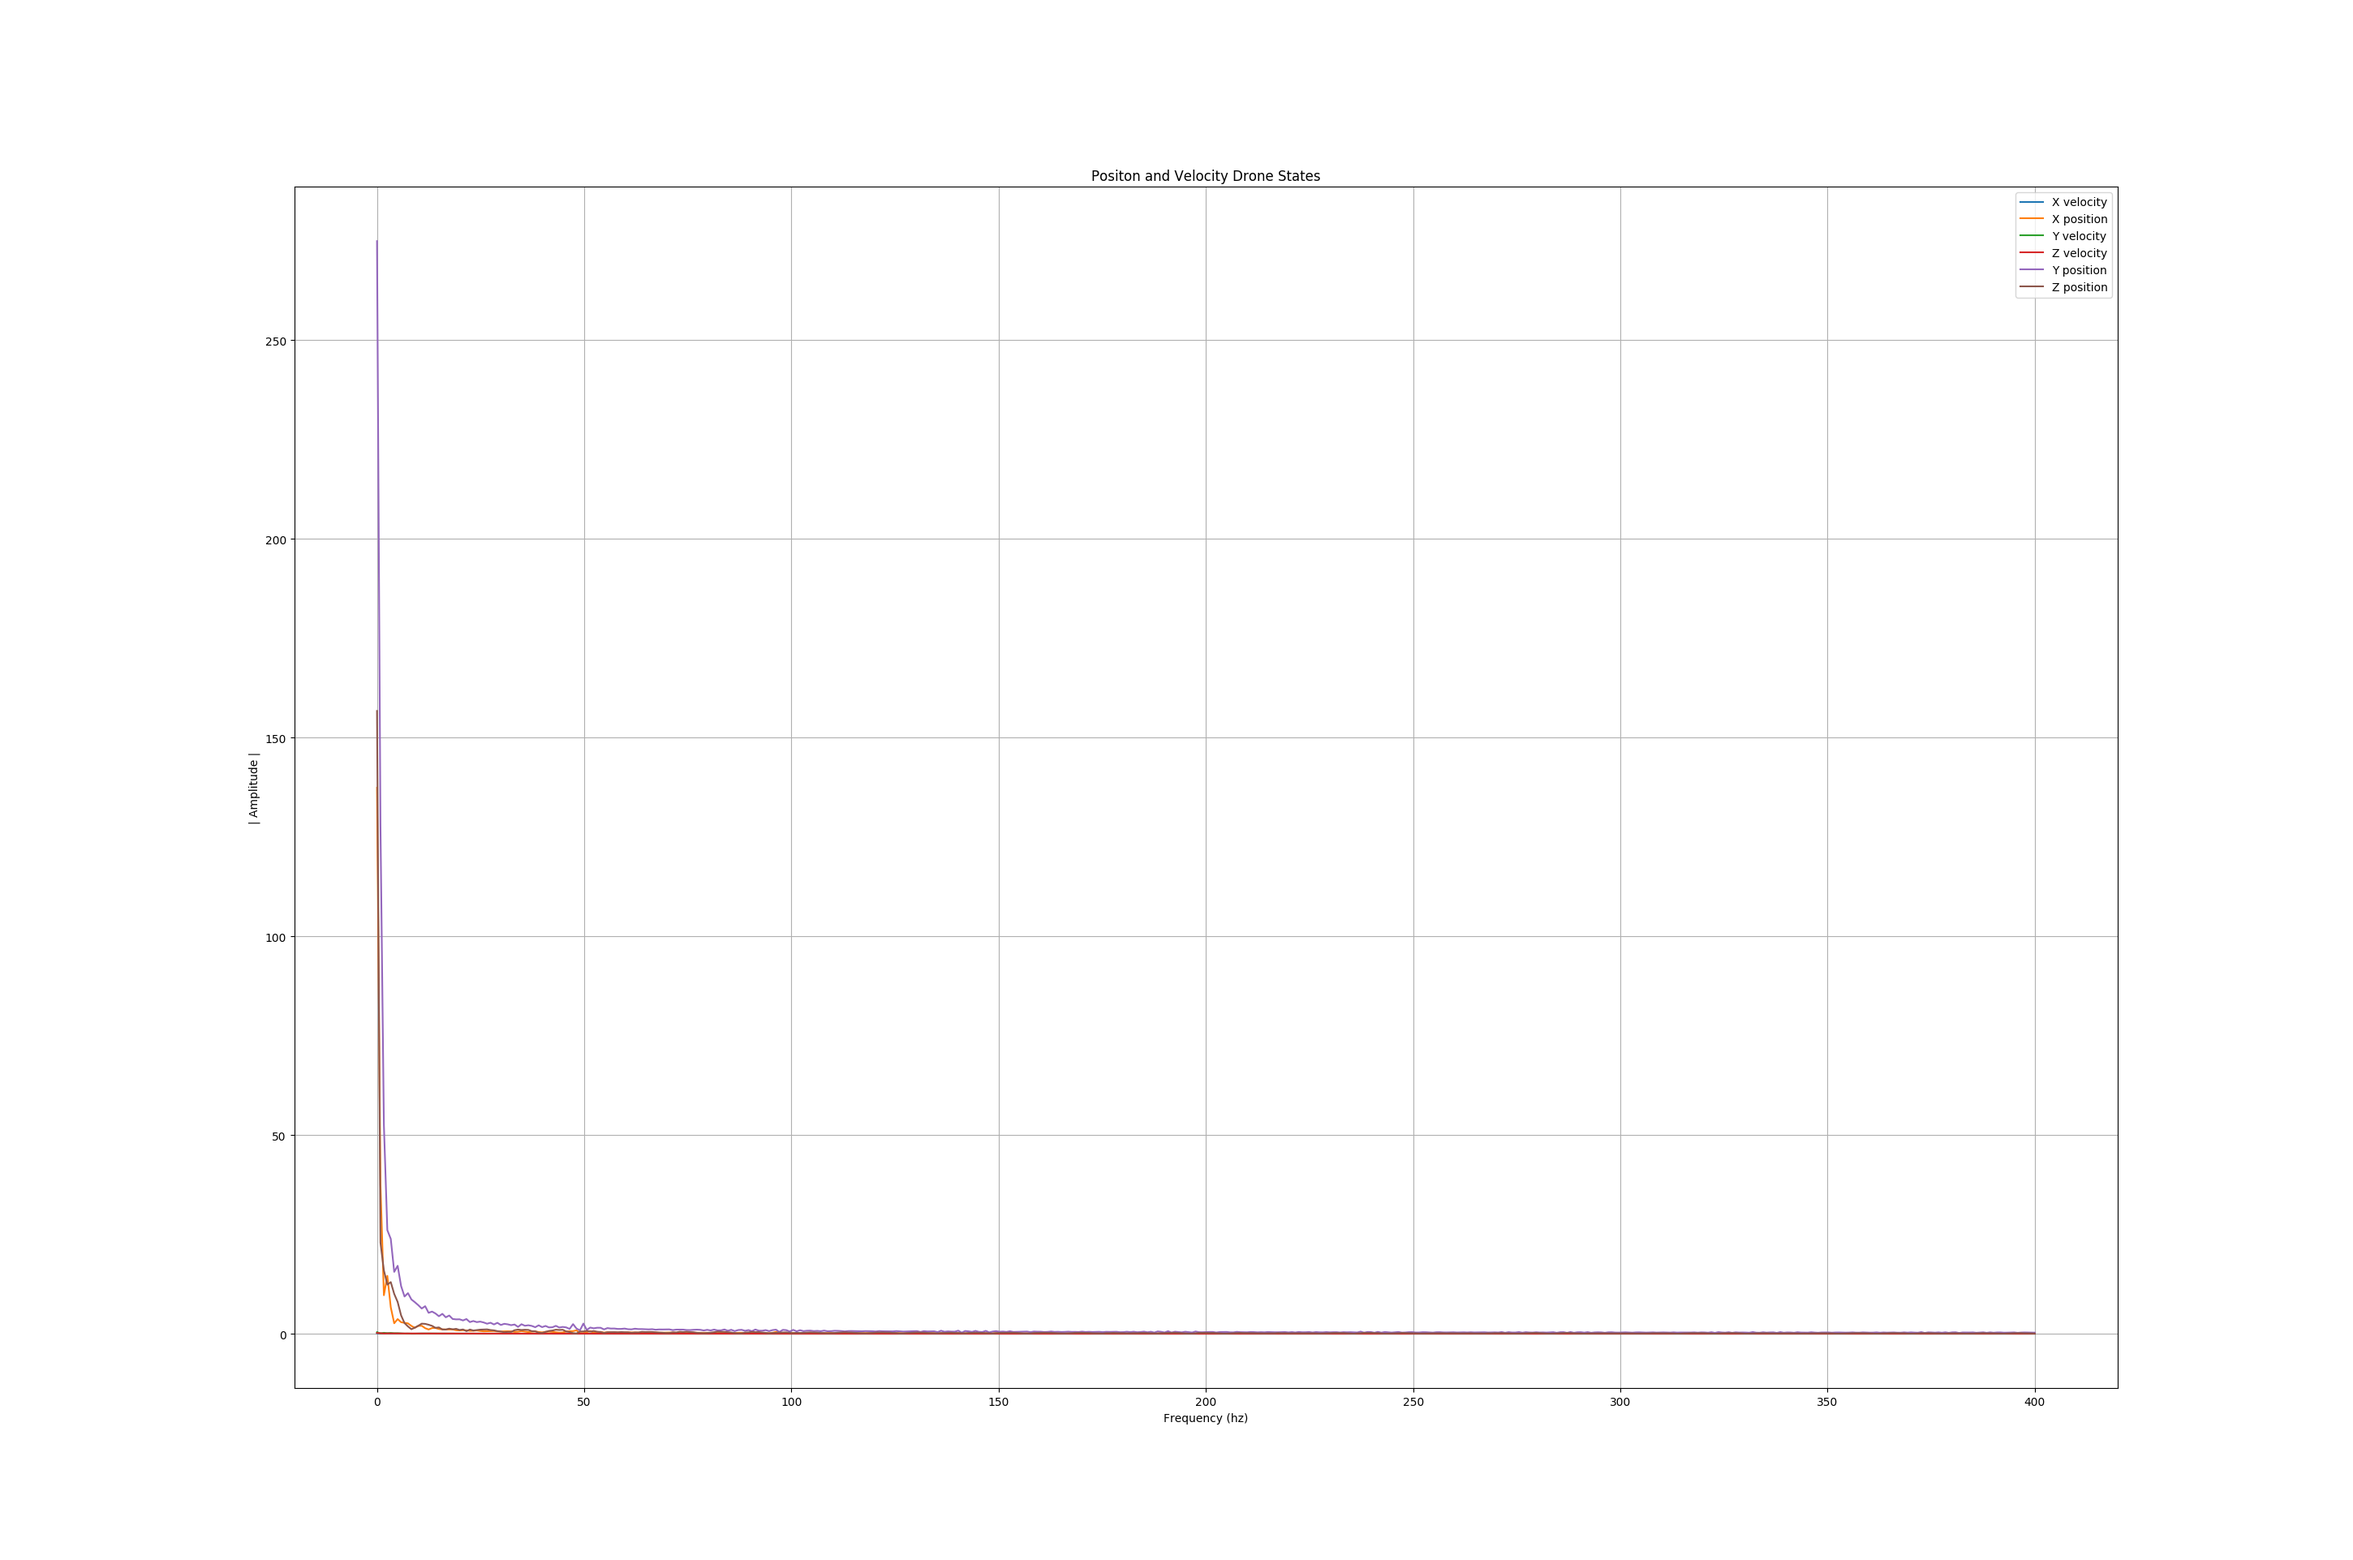
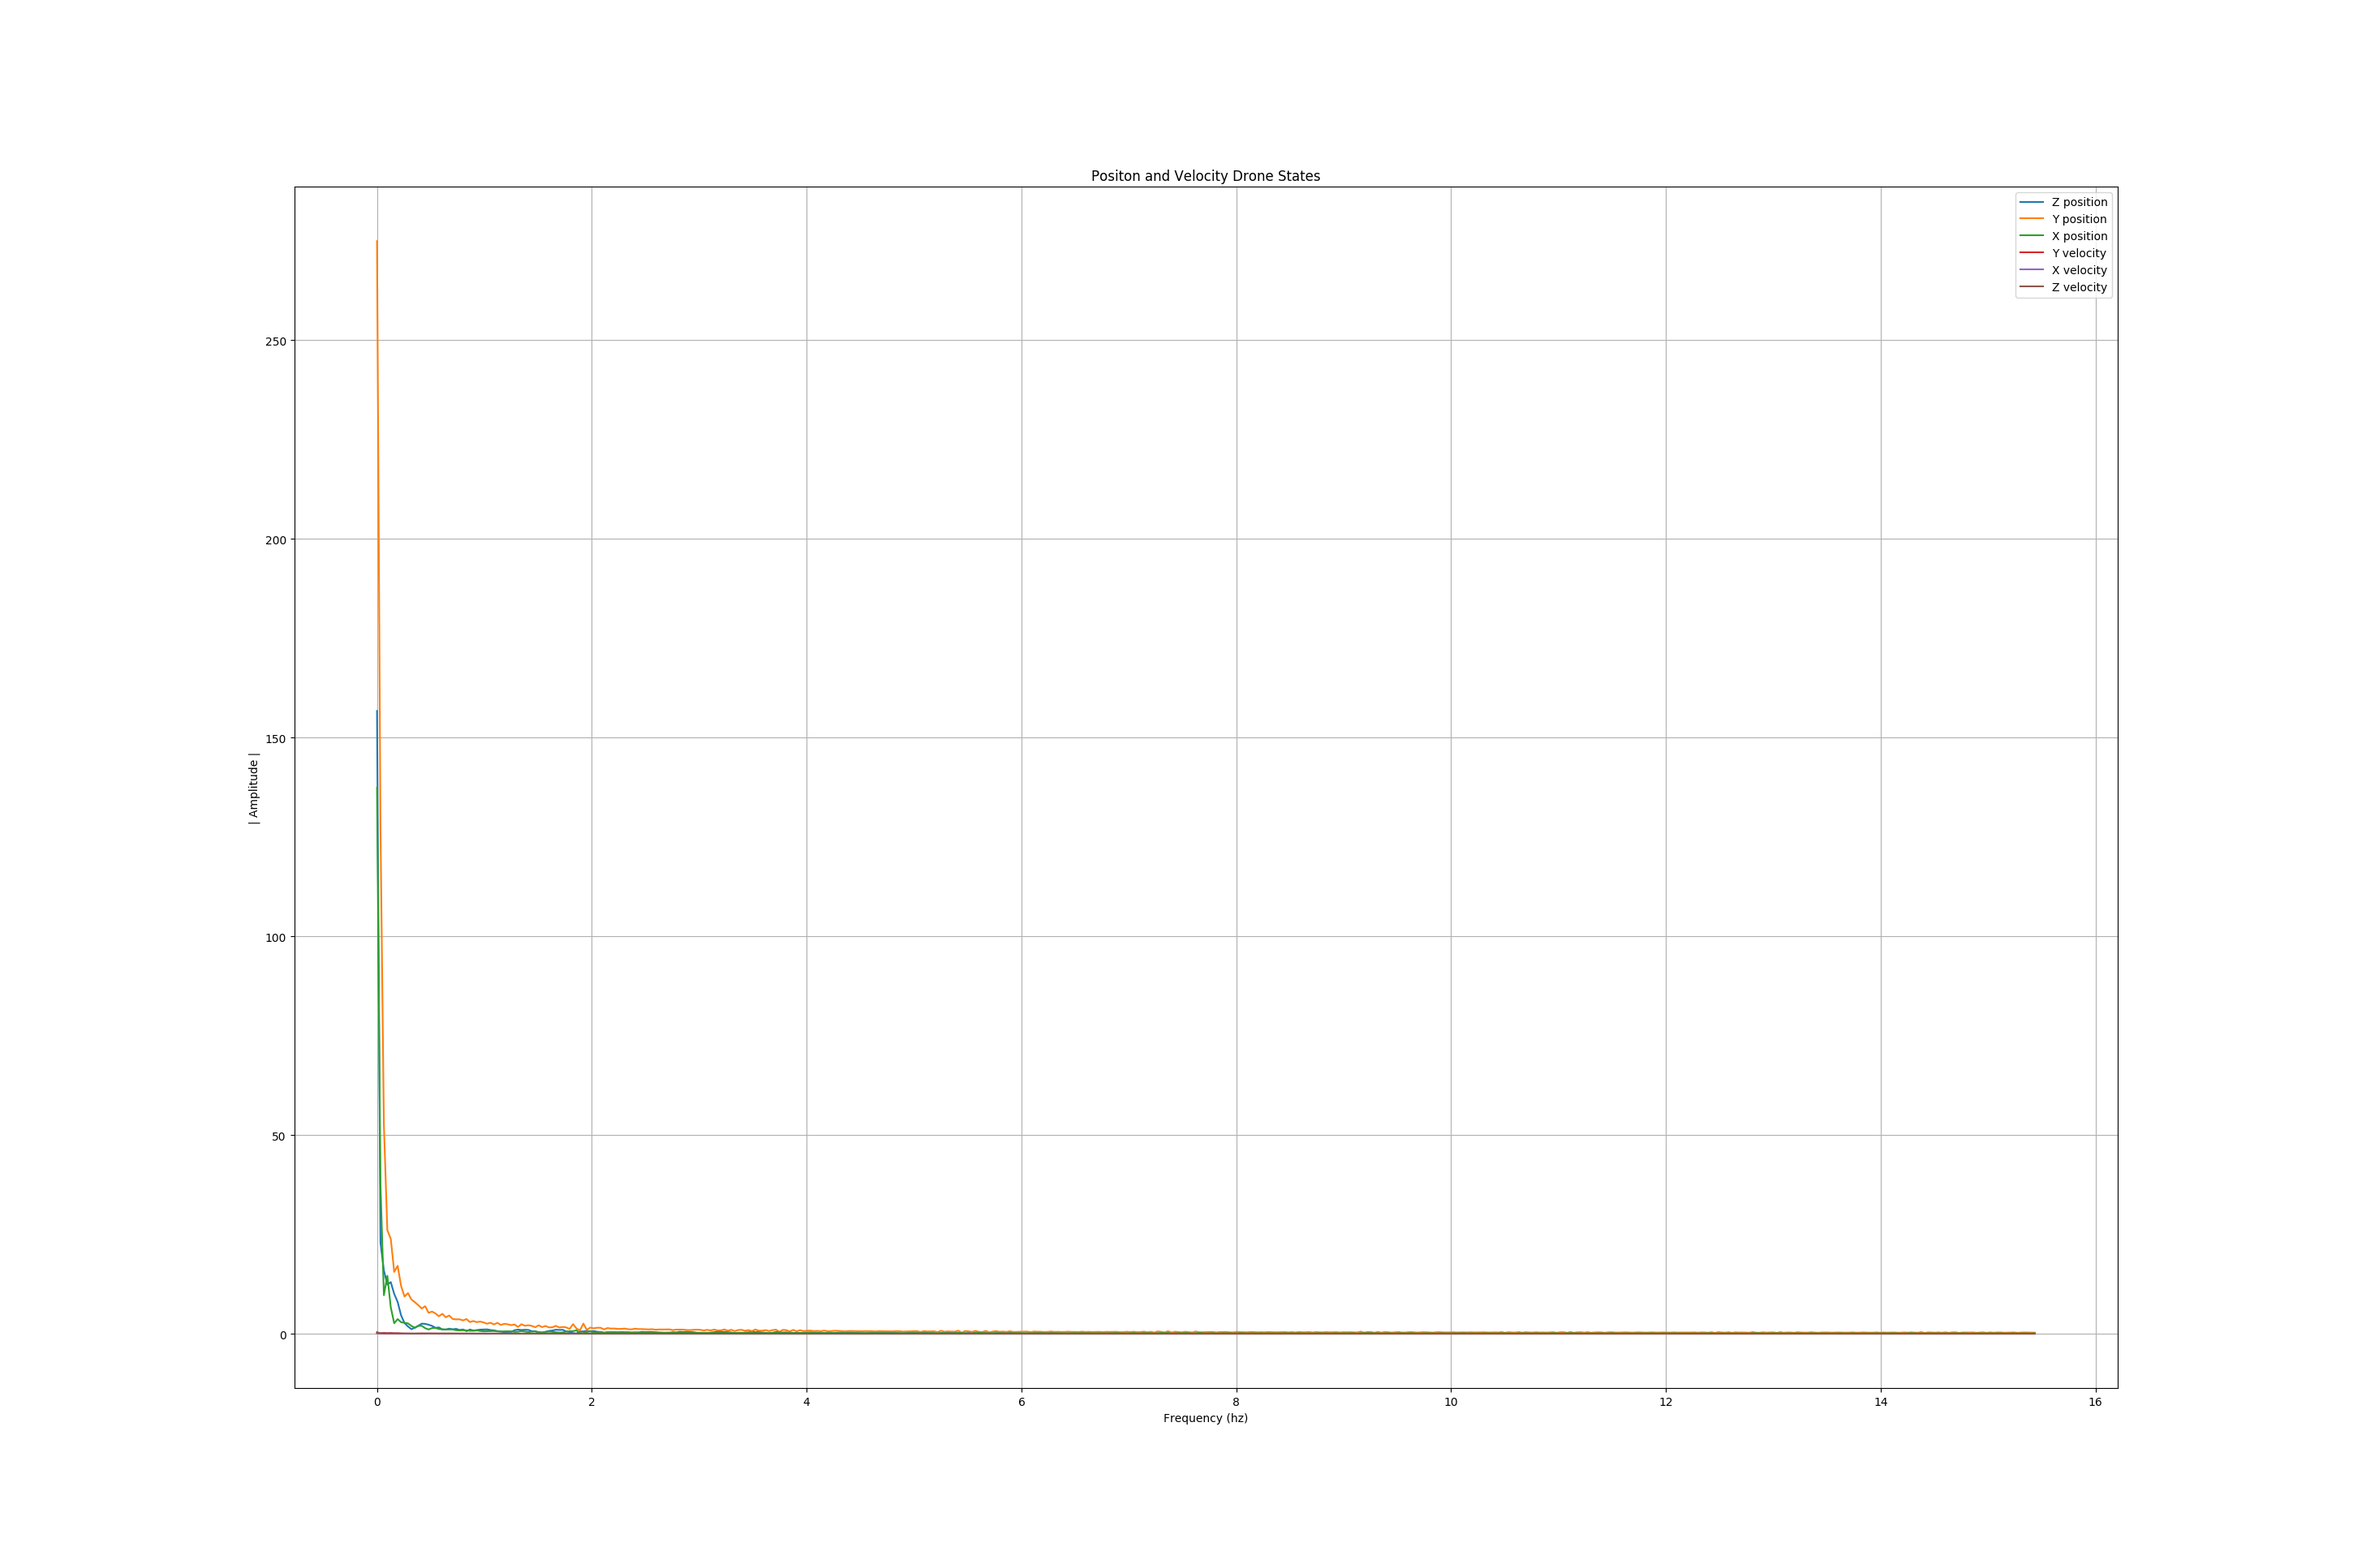
Update analysis script to use experimental dt.

Changed region(s): [[0.1862, 0.8424, 0.3414, 0.8736], [0.869, 0.1248, 0.9, 0.1872], [0.1552, 0.8112, 0.1862, 0.8424]]

diff --git a/estimation_and_control/sensor_data_collection/sensor_noise_analysis.py b/estimation_and_control/sensor_data_collection/sensor_noise_analysis.py
@@ -28,7 +28,7 @@ def plot_fft(data, dt, title=None):
     for key, signal in data.items():
         signal_array = np.array(signal)
         signal_tf = fft(signal_array)
-        T = 1.0/800 # sample spacing
+        T = dt # sample spacing
         xf = np.linspace(0.0, 1.0/(2.0*T), len(signal_array)//2)
 
         plt.plot(xf,
@@ -60,7 +60,7 @@ def plot_fft_clean(data, dt, title=None):
 
         signal_array = np.array(signal_clean)
         signal_tf = fft(signal_array)
-        T = dt
+        T = 1.0/2.0
         xf = np.linspace(0.0, 1.0/(2.0*T), len(signal_array)//2)
 
         plt.plot(xf,
